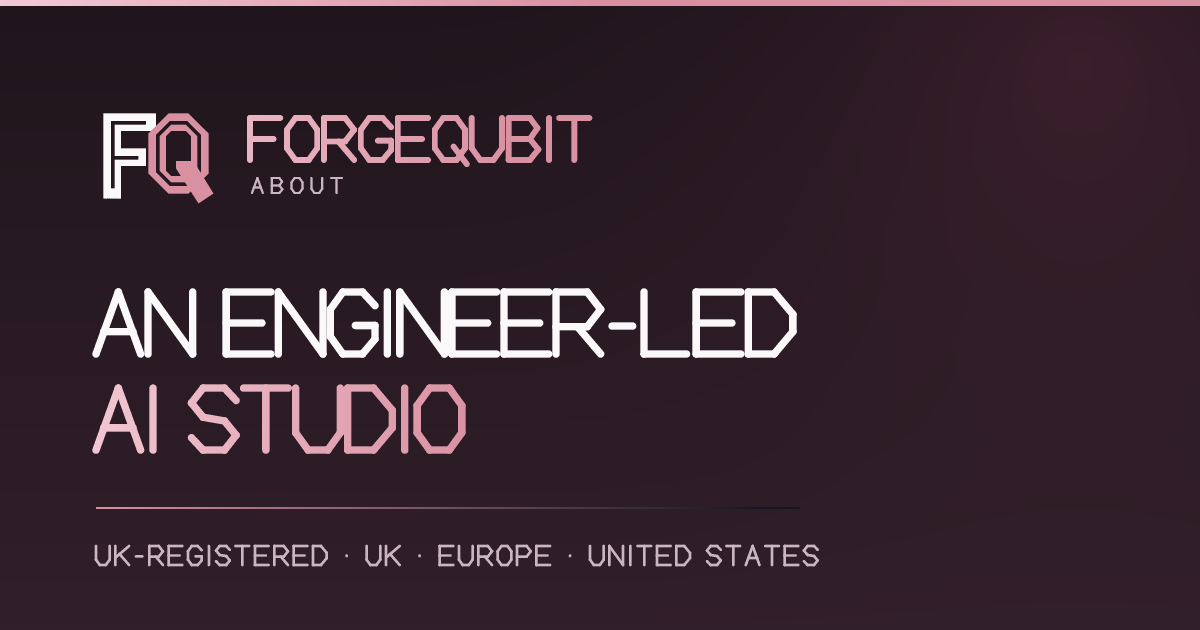
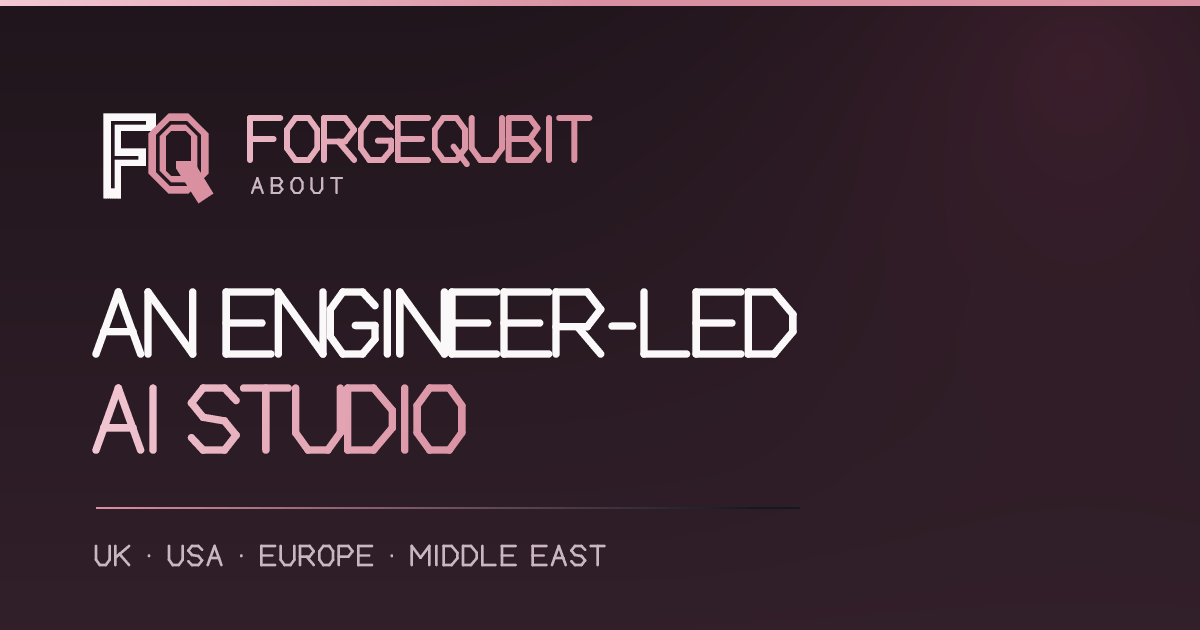
seo optimised

Changed region(s): [[0.1233, 0.8444, 0.6783, 0.9048]]

diff --git a/src/pages/International.jsx b/src/pages/International.jsx
@@ -1,0 +1,34 @@
+import { Link } from 'react-router-dom'
+import { Crumbs, Footer, Faq, CtaBand } from '../chrome.jsx'
+import { Seo, SITE_URL, ogFor, graph, webPageLd, breadcrumbLd, orgRef } from '../seo.jsx'
+import { AREA_SERVED, MARKETS, INTERNATIONAL_FAQS } from '../markets.js'
+
+const TITLE = 'AI Agency for UK, USA, Europe & Middle East | ForgeQubit'
+const DESC = 'AI agents, workflow automation and custom AI development for UK, US, European and Middle Eastern businesses. A UK-registered studio delivering remotely.'
+const JSON_LD = graph(
+  webPageLd({ path: '/international', title: TITLE, description: DESC }),
+  breadcrumbLd([{ label: 'International clients', path: '/international' }]),
+  { '@type': 'Service', '@id': `${SITE_URL}/international#service`, name: 'International AI development and automation', description: DESC, provider: orgRef, areaServed: AREA_SERVED, url: `${SITE_URL}/international` },
+  { '@type': 'FAQPage', '@id': `${SITE_URL}/international#questions`, mainEntity: INTERNATIONAL_FAQS.map(({ q, a }) => ({ '@type': 'Question', name: q, acceptedAnswer: { '@type': 'Answer', text: a } })) }
+)
+
+export default function International() {
+  return <div className="page international-page">
+    <Seo title={TITLE} description={DESC} path="/international" image={ogFor('international')} imageAlt="ForgeQubit AI development for the UK, USA, Europe and Middle East" jsonLd={JSON_LD} />
+    <header className="shell page-hero">
+      <Crumbs trail={[{ label: 'International clients' }]} />
+      <p className="eyebrow">UK-registered. Working internationally.</p>
+      <h1>Your AI partner.<br />Across borders.</h1>
+      <p className="lede">AI agents, workflow automation and custom software for businesses in the UK, USA, Europe and the Middle East.</p>
+      <div className="btn-row"><Link className="btn btn-primary" to="/contact">Discuss your project</Link><Link className="studio-text-link" to="/case-studies">Explore worked examples</Link></div>
+    </header>
+    <section className="section alt" aria-labelledby="markets-heading"><div className="shell">
+      <div className="section-head"><h2 id="markets-heading">Built around your market.</h2><p className="lede">Remote delivery. Local requirements defined together.</p></div>
+      <div className="market-grid">{MARKETS.map(m => <article key={m.id} id={m.id} className="market-card"><p className="eyebrow">{m.name}</p><h3>{m.intro}</h3><p>{m.body}</p><Link className="studio-text-link" to={m.to}>{m.link}</Link></article>)}</div>
+    </div></section>
+    <section className="section"><div className="shell international-process"><div><h2>Distance is part<br />of the plan.</h2><p className="lede">A clear brief and a shared definition of done keep a remote project moving.</p></div><ol><li><h3>Start with your setup</h3><p>Share your country, time zone, systems, customer languages and the outcome you need.</p></li><li><h3>Agree the working rhythm</h3><p>Set meeting windows, demo checkpoints and an owner for decisions before development begins.</p></li><li><h3>Launch with a handover</h3><p>Test real scenarios, document the system and agree who handles support after launch.</p></li></ol></div></section>
+    <section className="section alt"><div className="shell faq-grid"><div><p className="eyebrow">Working together</p><h2>Before we begin.</h2></div><Faq id="international-faq" items={INTERNATIONAL_FAQS} /></div></section>
+    <CtaBand title="Where are you building from?" body="Tell us your location, your tools and what you want to improve. We will help define the next step." />
+    <Footer />
+  </div>
+}

diff --git a/src/pages/Home.jsx b/src/pages/Home.jsx
@@ -1,3 +1,4 @@
+import { AREA_SERVED } from '../markets.js'
 import { Link } from 'react-router-dom'
 import { useState } from 'react'
 import { SOLUTIONS, FAQS } from '../data.js'
@@ -6,9 +7,9 @@ import { Seo, SITE_URL, SITE_NAME, ORG_ID, orgRef, graph, webPageLd } from '../s
 import { EnquiryFlow, Workflow } from '../visuals.jsx'
 import { Reveal } from '../motion.jsx'
 
-const TITLE = 'ForgeQubit | AI Receptionist, WhatsApp & Voice Agents, Automation (UK)'
+const TITLE = 'AI Automation Agency | Voice Agents & AI Products | ForgeQubit'
 const DESC =
-  'Voice and WhatsApp agents that answer customers, automations that connect your tools, and custom AI products. UK-registered, serving the UK, Europe and the US.'
+  'AI receptionists, voice and WhatsApp agents, workflow automation and custom AI products for clients in the UK, USA, Europe and Middle East.'
 
 /* ———————————————————— structured data ———————————————————— */
 
@@ -22,7 +23,7 @@ const JSON_LD = graph(
     email: EMAIL,
     slogan: 'AI systems that answer customers and move work forward.',
     description:
-      'UK-registered studio building voice and WhatsApp agents for reception and lead handling, workflow automation and integrations, and custom AI products for clients in the United Kingdom, Europe and the United States.',
+      'UK-registered studio building voice and WhatsApp agents for reception and lead handling, workflow automation and integrations, and custom AI products for clients in the United Kingdom, United States, Europe and Middle East.',
     logo: {
       '@type': 'ImageObject',
       '@id': `${SITE_URL}/#logo`,
@@ -33,18 +34,14 @@ const JSON_LD = graph(
     },
     image: { '@id': `${SITE_URL}/#logo` },
     address: { '@type': 'PostalAddress', addressCountry: 'GB' },
-    areaServed: [
-      { '@type': 'Country', name: 'United Kingdom' },
-      { '@type': 'Country', name: 'United States' },
-      { '@type': 'AdministrativeArea', name: 'Europe' },
-    ],
+    areaServed: AREA_SERVED,
     knowsAbout: SOLUTIONS.map((s) => s.name),
     contactPoint: {
       '@type': 'ContactPoint',
       email: EMAIL,
       contactType: 'sales',
       availableLanguage: 'English',
-      areaServed: ['GB', 'US', 'EU'],
+      areaServed: AREA_SERVED,
     },
     hasOfferCatalog: {
       '@type': 'OfferCatalog',
@@ -127,6 +124,7 @@ export default function Home() {
 
       <section className="section studio-faq" aria-labelledby="faq-h"><div className="shell faq-grid"><Reveal><p className="eyebrow">A few good questions</p><h2 id="faq-h">Let’s clear<br />things up.</h2></Reveal><Faq items={HOME_FAQS} /></div></section>
       <section className="studio-final"><div className="shell"><p className="eyebrow">Your next chapter</p><h2>What if<br /><span>we built it?</span></h2><Link className="btn btn-primary" to="/contact">Tell us your idea <span aria-hidden="true">↗</span></Link><a href={`mailto:${EMAIL}`}>{EMAIL}</a></div></section>
+      <div className="market-presence shell"><p>UK-registered. Serving the USA, UK, Europe and Middle East.</p><Link to="/international">Working with us internationally</Link></div>
       <Footer />
     </div>
   )

diff --git a/src/markets.js b/src/markets.js
@@ -1,0 +1,20 @@
+// Service availability, not office locations or claims of local incorporation.
+export const AREA_SERVED = [
+  { '@type': 'Country', name: 'United Kingdom' },
+  { '@type': 'Country', name: 'United States' },
+  { '@type': 'Place', name: 'Europe' },
+  { '@type': 'Place', name: 'Middle East' },
+]
+export const MARKET_LABEL = 'UK, USA, Europe and the Middle East'
+export const INTERNATIONAL_FAQS = [
+  { q: 'Can we work with you outside the UK?', a: 'Yes. ForgeQubit offers remote AI development and automation services to businesses in the United States, the United Kingdom, Europe and the Middle East. Tell us your country, time zone and preferred meeting times when you enquire.' },
+  { q: 'Can an agent support our customers’ language and local hours?', a: 'Tell us the languages, channels and operating hours you need. Language coverage, voice quality, phone-number availability and escalation hours are assessed during discovery and included in the agreed scope. This website and initial project communication are in English.' },
+  { q: 'How are hosting and customer-data requirements handled?', a: 'We establish your hosting requirements, data access, retention needs and approval process before selecting tools. Hosting regions and third-party services depend on the project. Any legal or regulatory requirements should be reviewed with your own adviser before launch.' },
+  { q: 'How do proposals and international handovers work?', a: 'Your proposal sets out deliverables, timeline, payment currency, third-party costs and support terms. Weekly working demos provide checkpoints. At handover, code, documentation and the agreed accounts are transferred or made available to your team.' },
+]
+export const MARKETS = [
+  { id: 'usa', name: 'United States', intro: 'AI automation for US businesses', body: 'Connect lead capture, appointment scheduling and customer follow-up across your existing systems. For multi-state teams, we scope time zones, routing and the handoff to local staff before building.', to: '/services/voice-agents', link: 'Explore AI voice agents' },
+  { id: 'uk', name: 'United Kingdom', intro: 'A UK-registered AI development partner', body: 'Build a reception agent for phone and WhatsApp enquiries, or connect the everyday tools behind your operations. Agree the booking rules, customer journey and exceptions with the people who use them.', to: '/services/ai-reception', link: 'Explore AI reception' },
+  { id: 'europe', name: 'Europe', intro: 'Connected workflows for European teams', body: 'Bring fragmented systems into one practical workflow. Discovery covers the languages your users need, hosting preferences, access permissions and which actions require a person’s approval.', to: '/services/workflow-automation', link: 'Explore workflow automation' },
+  { id: 'middle-east', name: 'Middle East', intro: 'AI agents and products for regional operations', body: 'For teams in markets such as the UAE and Saudi Arabia, start with the channels your customers use. Scope WhatsApp enquiries, English and Arabic requirements, local operating hours and regional integrations before implementation.', to: '/services/custom-ai-products', link: 'Explore custom AI products' },
+]

diff --git a/index.html b/index.html
@@ -4,10 +4,10 @@
     <meta charset="UTF-8" />
     <meta name="viewport" content="width=device-width, initial-scale=1, viewport-fit=cover" />
     <meta name="theme-color" content="#FAF8F9" />
-    <meta name="color-scheme" content="dark" />
+    <meta name="color-scheme" content="light" />
 
     <title>ForgeQubit — AI Reception, Automation &amp; Custom AI Products</title>
-    <meta name="description" content="ForgeQubit builds voice and WhatsApp agents that answer customers, automations that connect your business tools, and custom AI products. UK-registered, working with clients in the UK, Europe and the US." />
+    <meta name="description" content="ForgeQubit builds voice and WhatsApp agents that answer customers, automations that connect your business tools, and custom AI products. UK-registered, working with clients in the UK, USA, Europe and Middle East." />
     <meta name="robots" content="index, follow" />
     <meta name="author" content="ForgeQubit" />
     <meta name="publisher" content="ForgeQubit" />
@@ -18,10 +18,9 @@
     <meta property="og:type" content="website" />
     <meta property="og:site_name" content="ForgeQubit" />
     <meta property="og:title" content="ForgeQubit — AI Reception, Workflow Automation &amp; Custom AI Products" />
-    <meta property="og:description" content="Voice and WhatsApp agents that answer customers, automations that connect your business tools, and custom AI products. UK-registered, serving the UK, Europe and the US." />
+    <meta property="og:description" content="Voice and WhatsApp agents that answer customers, automations that connect your business tools, and custom AI products. UK-registered, serving the UK, USA, Europe and Middle East." />
     <meta property="og:url" content="https://www.forgequbit.co.uk/" />
     <meta property="og:locale" content="en_GB" />
-    <meta property="og:locale:alternate" content="en_US" />
     <meta property="og:image" content="https://www.forgequbit.co.uk/og.png" />
     <meta property="og:image:width" content="1200" />
     <meta property="og:image:height" content="630" />
@@ -40,11 +39,6 @@
     <link rel="apple-touch-icon" href="/apple-touch-icon.png" />
     <link rel="manifest" href="/site.webmanifest" />
 
-    <!-- Fonts are self-hosted. The two faces the first screen uses are
-         preloaded; the rest arrive with the CSS. crossorigin is required
-         even same-origin — fonts always fetch in CORS mode. -->
-    <link rel="preload" href="/fonts/space-grotesk-300-700-latin.woff2" as="font" type="font/woff2" crossorigin />
-    <link rel="preload" href="/fonts/instrument-serif-400i-latin.woff2" as="font" type="font/woff2" crossorigin />
   </head>
   <body>
     <div id="root"></div>

diff --git a/src/studio.css b/src/studio.css
@@ -160,3 +160,19 @@ h1,h2,h3{letter-spacing:-.045em;font-weight:600}
   .work-page .demo-visual .call, .work-page .demo-visual .transcript, .work-page .demo-visual .wf { padding: 14px; }
   .work-page .call-line { grid-template-columns: 55px minmax(0,1fr); gap: 8px; }
 }
+.market-presence{display:flex;align-items:center;justify-content:space-between;gap:20px;padding-block:30px;font-size:14px;color:var(--ink-2)}
+.market-presence a{color:var(--brand);text-decoration:none}
+.international-page .page-hero .eyebrow{margin:20px 0}
+.market-grid{display:grid;grid-template-columns:1fr 1fr;gap:24px}
+.market-card{background:white;border-radius:24px;padding:36px}
+.market-card h3{font-size:27px;margin:16px 0}
+.market-card>p:not(.eyebrow){color:var(--ink-2);line-height:1.65}
+.market-card .studio-text-link{margin-top:20px}
+.international-process{display:grid;grid-template-columns:1fr 1fr;gap:80px}
+.international-process .lede{margin-top:24px}
+.international-process ol{list-style:none;counter-reset:delivery}
+.international-process li{counter-increment:delivery;padding:24px 0;border-bottom:1px solid var(--line)}
+.international-process li:first-child{padding-top:0}
+.international-process li h3{font-size:22px;margin-bottom:10px}
+.international-process li p{color:var(--ink-2);line-height:1.6}
+@media(max-width:700px){.market-presence{align-items:start;flex-direction:column;gap:8px}.market-grid,.international-process{grid-template-columns:1fr;gap:24px}.market-card{padding:26px}}

diff --git a/src/App.jsx b/src/App.jsx
@@ -14,6 +14,7 @@ import Home from './pages/Home.jsx'
    before hydration (see main.jsx) so the server markup never flashes.
    ———————————————————————————————————————— */
 export const PAGE_LOADERS = {
+  International: () => import('./pages/International.jsx'),
   Services: () => import('./pages/Services.jsx'),
   ServicePage: () => import('./pages/ServicePage.jsx'),
   VoiceAgents: () => import('./pages/VoiceAgents.jsx'),
@@ -32,6 +33,7 @@ export function loaderFor(pathname) {
   if (pathname === '/services') return 'Services'
   if (pathname === '/services/voice-agents') return 'VoiceAgents'
   if (SOLUTIONS.some((s) => s.path === pathname)) return 'ServicePage'
+  if (pathname === '/international') return 'International'
   if (pathname === '/about') return 'About'
   if (pathname === '/case-studies') return 'Work'
   if (pathname === '/blog') return 'Blog'
@@ -214,6 +216,7 @@ export function AppShell({ pages = lazyPages }) {
                 <Route key={s.slug} path={s.path} element={<P.ServicePage solution={s} />} />
               ))}
               <Route path="/services/voice-agents" element={<P.VoiceAgents />} />
+              <Route path="/international" element={<P.International />} />
               <Route path="/about" element={<P.About />} />
               <Route path="/case-studies" element={<P.Work />} />
               <Route path="/blog" element={<P.Blog />} />

diff --git a/src/pages/About.jsx b/src/pages/About.jsx
@@ -60,7 +60,7 @@ export default function About() {
           {COMPANY.registeredOffice && <div><dt>Registered office</dt><dd>{COMPANY.registeredOffice}</dd></div>}
           {COMPANY.founded && <div><dt>Founded</dt><dd>{COMPANY.founded}</dd></div>}
           <div><dt>Works with</dt><dd>Service businesses, operations teams, founders and product teams</dd></div>
-          <div><dt>Regions</dt><dd>United Kingdom, Europe, United States (remote)</dd></div>
+          <div><dt>Regions</dt><dd>UK, USA, Europe, Middle East (remote)</dd></div>
           <div><dt>Contact</dt><dd><a href={`mailto:${EMAIL}`}>{EMAIL}</a></dd></div>
           <div><dt>Engagements</dt><dd>Fixed-scope proposals, weekly demos, deliverables assigned to you on payment</dd></div>
         </dl>
@@ -81,8 +81,8 @@ export default function About() {
               in accounts you control.
             </p>
             <p>
-              We are UK-registered and work remotely with clients in the United Kingdom, Europe and
-              the United States, overlapping with both European and US business hours.
+              We are UK-registered and offer remote delivery across the UK, USA, Europe and Middle East.
+              Meeting windows and handover arrangements are agreed around your team.
             </p>
           </div>
           <div className="glance">

diff --git a/src/chrome.jsx b/src/chrome.jsx
@@ -184,7 +184,7 @@ export function Footer() {
             </Link>
             <p>
               Intelligent systems. Thoughtfully built.
-              A UK-registered AI studio working worldwide.
+              A UK-registered AI studio serving the UK, USA, Europe and Middle East.
             </p>
             <a className="link-cta" href={`mailto:${EMAIL}`} data-track="footer-email">{EMAIL} <span aria-hidden="true">→</span></a>
           </div>
@@ -204,6 +204,7 @@ export function Footer() {
               <h3>Company</h3>
               <ul>
                 <li><Link to="/about">About</Link></li>
+                <li><Link to="/international">International clients</Link></li>
                 <li><Link to="/case-studies">Work</Link></li>
                 <li><Link to="/blog">Blog</Link></li>
                 <li><Link to="/contact">Contact</Link></li>
@@ -221,7 +222,7 @@ export function Footer() {
 
         <div className="footer-base">
           <span>© {new Date().getFullYear()} ForgeQubit. Registered in the United Kingdom.</span>
-          <span>United Kingdom · Europe · United States</span>
+          <span>UK · USA · Europe · Middle East</span>
         </div>
       </div>
       <div className="footer-watermark" aria-hidden="true">ForgeQubit</div>

diff --git a/src/pages/ServicePage.jsx b/src/pages/ServicePage.jsx
@@ -1,3 +1,4 @@
+import { AREA_SERVED } from '../markets.js'
 import { Link } from 'react-router-dom'
 import { useEffect, useState } from 'react'
 import { SOLUTIONS, VOICE, contactHref } from '../data.js'
@@ -24,7 +25,7 @@ const META = {
       'Voice and WhatsApp agents that answer enquiries in seconds, qualify prospects, book into your calendar and hand off to your team. Built on your number.',
   },
   'workflow-automation': {
-    title: 'Workflow Automation & Integrations Agency (UK) | ForgeQubit',
+    title: 'Workflow Automation & Integration Services | ForgeQubit',
     description:
       'Connected workflows across CRMs, accounting, helpdesks and internal tools. AI only where judgement is needed, with a person approving anything uncertain.',
   },
@@ -114,7 +115,7 @@ export default function ServicePage({ solution: s }) {
       description: s.short,
       serviceType: s.name,
       provider: orgRef,
-      areaServed: ['GB', 'US', 'EU'],
+      areaServed: AREA_SERVED,
       url: `${SITE_URL}${s.path}`,
     },
     {

diff --git a/src/pages/VoiceAgents.jsx b/src/pages/VoiceAgents.jsx
@@ -1,3 +1,4 @@
+import { AREA_SERVED } from '../markets.js'
 import { Link } from 'react-router-dom'
 import { VOICE, SOLUTIONS, contactHref } from '../data.js'
 import { Crumbs, Footer, Faq, CtaBand } from '../chrome.jsx'
@@ -5,7 +6,7 @@ import { Seo, SITE_URL, ogFor, orgRef, graph, webPageLd, breadcrumbLd } from '..
 import { CallSample } from '../visuals.jsx'
 import { ICONS, IconTile } from '../icons.jsx'
 
-const TITLE = 'AI Voice Agents for Phone Answering & Bookings (UK) | ForgeQubit'
+const TITLE = 'AI Voice Agents for Phone Answering & Bookings | ForgeQubit'
 const DESC =
   'Voice agents that answer on the first ring, book and reschedule appointments, answer common questions and transfer to your team with context. Works with your number.'
 
@@ -22,7 +23,7 @@ const JSON_LD = graph(
     description: VOICE.short,
     serviceType: 'AI voice agent development',
     provider: orgRef,
-    areaServed: ['GB', 'US', 'EU'],
+    areaServed: AREA_SERVED,
     url: `${SITE_URL}${VOICE.path}`,
   },
   {

diff --git a/src/pages/Services.jsx b/src/pages/Services.jsx
@@ -1,3 +1,4 @@
+import { AREA_SERVED } from '../markets.js'
 import { Link } from 'react-router-dom'
 import { SOLUTIONS, VOICE, CAPABILITIES, FAQS, contactHref } from '../data.js'
 import { Crumbs, Footer, Faq, CtaBand } from '../chrome.jsx'
@@ -24,7 +25,7 @@ const JSON_LD = graph(
         description: s.short,
         url: `${SITE_URL}${s.path}`,
         provider: orgRef,
-        areaServed: ['GB', 'US', 'EU'],
+        areaServed: AREA_SERVED,
       },
     })),
   },
@@ -156,6 +157,7 @@ export default function Services() {
         body="Describe the situation in a few sentences. We will tell you which solution applies, or that none does, before anyone talks about price."
         secondary={{ to: '/case-studies', label: 'See worked examples' }}
       />
+      <p className="shell market-presence">Working across borders? <Link to="/international">AI services for the UK, USA, Europe and Middle East</Link></p>
       <Footer />
     </div>
   )

diff --git a/src/entry-server.jsx b/src/entry-server.jsx
@@ -2,6 +2,7 @@ import { renderToString } from 'react-dom/server'
 import { StaticRouter } from 'react-router'
 import { AppShell } from './App.jsx'
 import { collectedHead } from './seo.jsx'
+import International from './pages/International.jsx'
 import Services from './pages/Services.jsx'
 import ServicePage from './pages/ServicePage.jsx'
 import VoiceAgents from './pages/VoiceAgents.jsx'
@@ -17,6 +18,7 @@ import NotFound from './pages/NotFound.jsx'
    every page to complete HTML while the browser only downloads the
    chunk for the route it is on. */
 const PAGES = {
+  International,
   Services,
   ServicePage,
   VoiceAgents,
